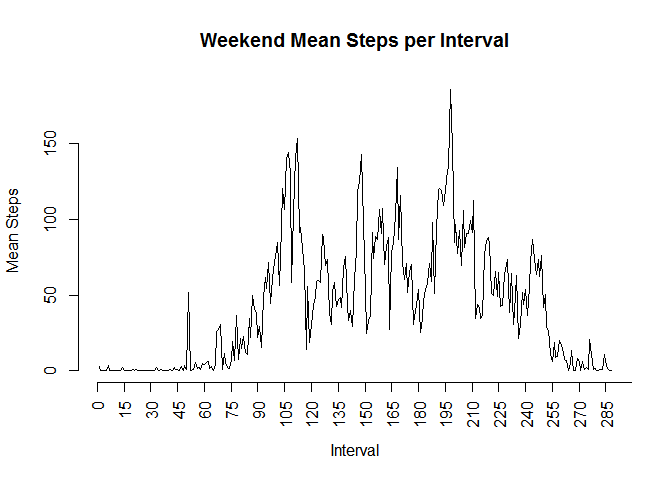
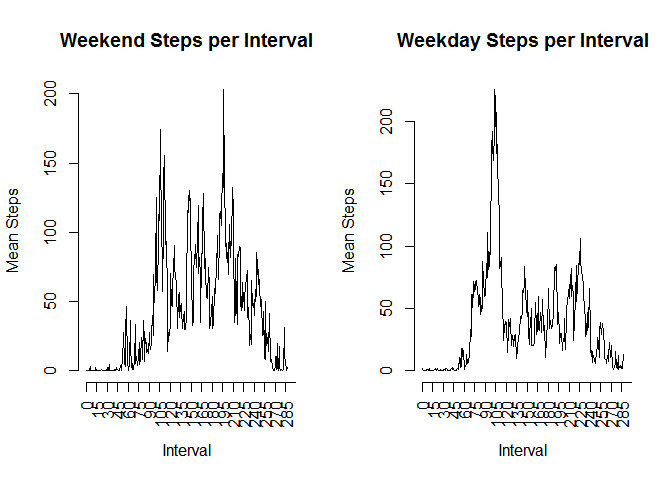
very last additions

diff --git a/PA1_template.html b/PA1_template.html
@@ -195,18 +195,18 @@ tot_num_steps_day2&lt;-as.data.frame(sapply(activity5, sum))
 
 names(tot_num_steps_day2)&lt;-noms
 ggplot(tot_num_steps_day2, aes(x=Steps)) + geom_histogram(binwidth=1000)</code></pre>
[2 lines of base64/hex data omitted]
 <pre class="r"><code>summary(tot_num_steps_day2$Steps)</code></pre>
 <pre><code>##    Min. 1st Qu.  Median    Mean 3rd Qu.    Max. 
-##      41    9819   11770   12530   14600   35080</code></pre>
+##      41    9819   11830   12930   15100   36020</code></pre>
 <pre class="r"><code>AveTotNumStepsDay2&lt;-mean(tot_num_steps_day2$Steps)
 AveTotNumStepsDay2</code></pre>
-<pre><code>## [1] 12531.53</code></pre>
+<pre><code>## [1] 12926.74</code></pre>
 <pre class="r"><code>MedTotNumStepsDay2&lt;-quantile(tot_num_steps_day2$Steps, 0.5)
 MedTotNumStepsDay2</code></pre>
 <pre><code>##   50% 
-## 11774</code></pre>
-<p>With this new data set the mean total number of steps is 1.253152810^{4} and the median is 1.177410^{4}. The difference among the imputed and original data is significant. The histogram shows a sqewd distribition in comparison with the one obtained with the reduced data.</p>
+## 11829</code></pre>
+<p>With this new data set the mean total number of steps is 1.292673610^{4} and the median is 1.182910^{4}. The difference among the imputed and original data is significant. The histogram shows a sqewd distribition in comparison with the one obtained with the reduced data.</p>
 </div>
 </div>
 <div id="are-there-differences-in-activity-patterns-between-weekdays-and-weekends" class="section level2">
@@ -245,15 +245,14 @@ WEStepsPerInterval&lt;-with(A6weekends,
 WDStepsPerInterval&lt;-with(A6weekdays, 
                          {tapply(steps, interval, mean, na.rm = TRUE)
                          })
-
-plot(WEStepsPerInterval, type = &quot;l&quot;, main =&quot;Weekend Mean Steps per Interval&quot;, xlab=&quot;Interval&quot;, ylab=&quot;Mean Steps&quot;, axes = FALSE)
+par(mfrow=c(1,2))
+plot(WEStepsPerInterval, type = &quot;l&quot;, main =&quot;Weekend Steps per Interval&quot;, xlab=&quot;Interval&quot;, ylab=&quot;Mean Steps&quot;, axes = FALSE)
+axis(side=1, at=marcas, las = 2)
+axis(2)
+plot(WDStepsPerInterval, type = &quot;l&quot;, main =&quot;Weekday Steps per Interval&quot;, xlab=&quot;Interval&quot;, ylab=&quot;Mean Steps&quot;, axes = FALSE)
 axis(side=1, at=marcas, las = 2)
 axis(2)</code></pre>
[1 lines of base64/hex data omitted]
-<pre class="r"><code>plot(WDStepsPerInterval, type = &quot;l&quot;, main =&quot;Weekday Mean Steps per Interval&quot;, xlab=&quot;Interval&quot;, ylab=&quot;Mean Steps&quot;, axes = FALSE)
-axis(side=1, at=marcas, las = 2)
-axis(2)</code></pre>
[2 lines of base64/hex data omitted]
 </div>
 
 

diff --git a/PA1_template.md b/PA1_template.md
@@ -218,7 +218,7 @@ summary(tot_num_steps_day2$Steps)
 
 ```
 ##    Min. 1st Qu.  Median    Mean 3rd Qu.    Max. 
-##      41    9819   11770   12530   14600   35080
+##      41    9819   11830   12930   15100   36020
 ```
 
 ```r
@@ -227,7 +227,7 @@ AveTotNumStepsDay2
 ```
 
 ```
-## [1] 12531.53
+## [1] 12926.74
 ```
 
 ```r
@@ -237,10 +237,10 @@ MedTotNumStepsDay2
 
 ```
 ##   50% 
-## 11774
+## 11829
 ```
 
-With this new data set the mean total number of steps is 1.2531528\times 10^{4} and the median is 1.1774\times 10^{4}. The difference among the imputed and original data is  significant. The histogram shows a sqewd distribition in comparison with the one obtained with the reduced data. 
+With this new data set the mean total number of steps is 1.2926736\times 10^{4} and the median is 1.1829\times 10^{4}. The difference among the imputed and original data is  significant. The histogram shows a sqewd distribition in comparison with the one obtained with the reduced data. 
 
 ## Are there differences in activity patterns between weekdays and weekends?  
 
@@ -286,19 +286,14 @@ WEStepsPerInterval<-with(A6weekends,
 WDStepsPerInterval<-with(A6weekdays, 
                          {tapply(steps, interval, mean, na.rm = TRUE)
                          })
-
-plot(WEStepsPerInterval, type = "l", main ="Weekend Mean Steps per Interval", xlab="Interval", ylab="Mean Steps", axes = FALSE)
+par(mfrow=c(1,2))
+plot(WEStepsPerInterval, type = "l", main ="Weekend Steps per Interval", xlab="Interval", ylab="Mean Steps", axes = FALSE)
+axis(side=1, at=marcas, las = 2)
+axis(2)
+plot(WDStepsPerInterval, type = "l", main ="Weekday Steps per Interval", xlab="Interval", ylab="Mean Steps", axes = FALSE)
 axis(side=1, at=marcas, las = 2)
 axis(2)
 ```
 
 ![](PA1_template_files/figure-html/eigth_part-1.png) 
-
-```r
-plot(WDStepsPerInterval, type = "l", main ="Weekday Mean Steps per Interval", xlab="Interval", ylab="Mean Steps", axes = FALSE)
-axis(side=1, at=marcas, las = 2)
-axis(2)
-```
-
-![](PA1_template_files/figure-html/eigth_part-2.png) 
 
